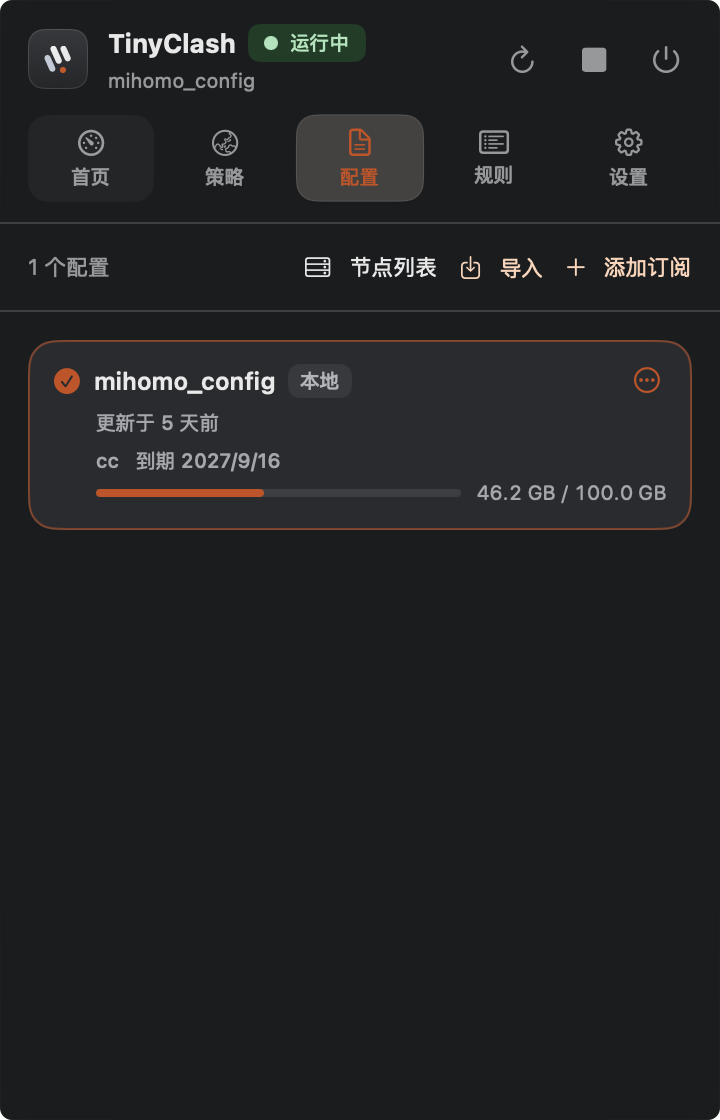
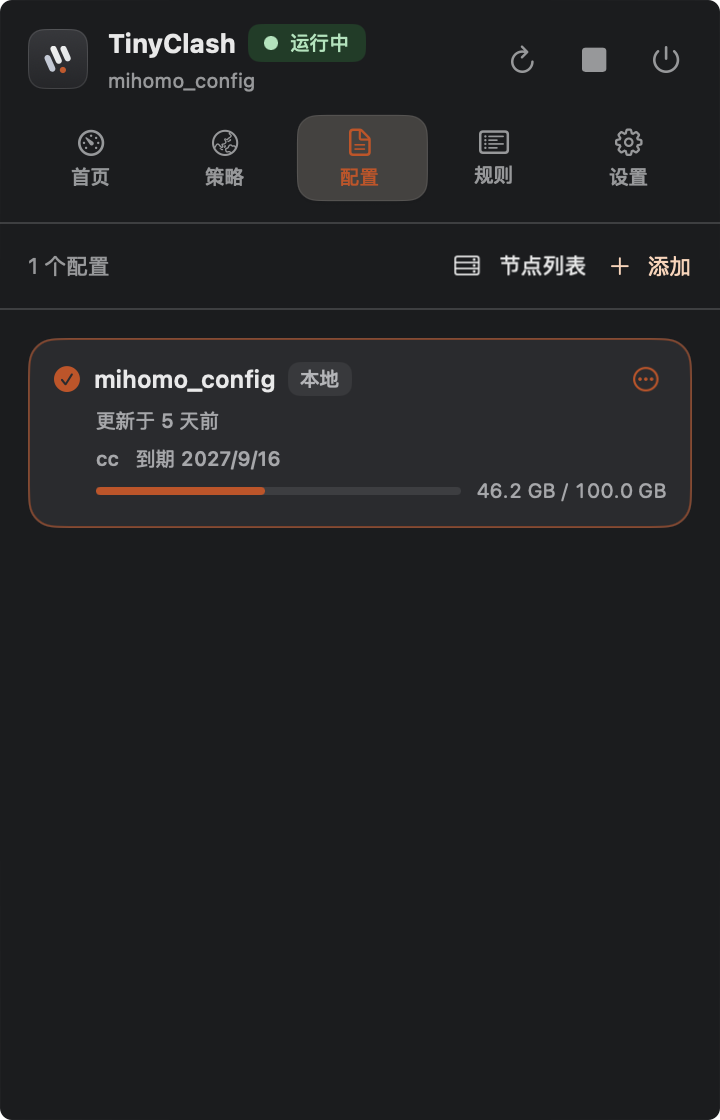
Group profile creation actions in the Add menu

Changed region(s): [[0.0, 0.2188, 1.0, 0.4375], [0.0611, 0.4062, 0.9167, 0.5], [0.5806, 0.125, 0.6111, 0.1875]]

diff --git a/Sources/TinyClash/Views/Panel/ProfilesTab.swift b/Sources/TinyClash/Views/Panel/ProfilesTab.swift
@@ -49,12 +49,13 @@ struct ProfilesTab: View {
                 .toolbarAction()
                 .help("查看全部节点")
                 Menu {
+                    Button("添加订阅…") { adding = true }
                     Button("导入 YAML 文件…") { Task { await state.importProfileFromFile() } }
                     Button("新建空白配置") {
                         if let p = state.createBlankProfile() { NSWorkspace.shared.open(p.fileURL) }
                     }
                 } label: {
-                    Label("导入", systemImage: "square.and.arrow.down")
+                    Label("添加", systemImage: "plus")
                 }
                 // borderless 按钮样式下菜单标签会被 AppKit 按系统字号重绘；plain 样式才沿用
                 // 这里的 caption 字号，与旁边的工具栏按钮一样大
@@ -63,11 +64,7 @@ struct ProfilesTab: View {
                 .menuIndicator(.hidden)
                 .fixedSize()
                 .toolbarAction(prominent: true)
-                .help("导入本地 YAML 或新建空白配置")
-                Button { adding = true } label: {
-                    Label("添加订阅", systemImage: "plus")
-                }
-                .toolbarAction(prominent: true)
+                .help("添加订阅、导入本地 YAML 或新建空白配置")
             }
             .font(Theme.toolbarFont)
             .buttonStyle(.borderless)

diff --git a/DESIGN.md b/DESIGN.md
@@ -197,7 +197,7 @@ Home uses a native segmented picker for mode selection. Group search uses `TextF
 
 Settings draws its own switches (`SettingsSwitchStyle`) and inline action buttons (`SettingsActionStyle`) instead of using native ones: the menu bar app is usually inactive, so native controls render with grey knobs, a dimmed tint, and grey buttons. Switches use an OrangePulse (`#F57B3F`) track with a white knob. Buttons use `Theme.settingsActionForeground` text (`#F57B3F` in dark appearance, `#B0480E` in light appearance) on a 15% OrangePulse fill. The appearance picker is a compact icon switch: an inset track with a 20% OrangePulse selection block that slides between options, with the selected icon in `Theme.settingsActionForeground`, matching the inline action buttons. The 协议栈 popup remains native and inherits the panel tint (`Theme.accent`), matching the pickers in 策略 and 规则. `panelPicker` rebuilds the popup when the color scheme changes, because a live native popup otherwise falls back to the system accent color.
 
-The Profiles tab uses the same top toolbar as 策略 and 规则: profile count, an 「导入」 menu (导入 YAML 文件… / 新建空白配置), and the prominent 「添加订阅」. Each remote profile card's menu offers “更新订阅” (alongside the card's refresh button), and every profile card's menu additionally offers “更新订阅节点” for the selected, running configuration, including local YAML: it updates only HTTP `proxy-providers`, shows an in-card progress indicator, then refreshes the node list without rewriting YAML, restarting the core, or updating rule providers. For noncurrent or stopped profiles the disabled item's own title states the reason (「需先切换到此配置」 / 「需先启动内核」) instead of an extra inert menu row; enumeration errors, absent HTTP subscriptions, and individual update failures are reported rather than silently treated as success.
+The Profiles tab uses the same top toolbar as 策略 and 规则: profile count, 「节点列表」, and a prominent 「添加」 menu (添加订阅… / 导入 YAML 文件… / 新建空白配置). Each remote profile card's menu offers “更新订阅” (alongside the card's refresh button), and every profile card's menu additionally offers “更新订阅节点” for the selected, running configuration, including local YAML: it updates only HTTP `proxy-providers`, shows an in-card progress indicator, then refreshes the node list without rewriting YAML, restarting the core, or updating rule providers. For noncurrent or stopped profiles the disabled item's own title states the reason (「需先切换到此配置」 / 「需先启动内核」) instead of an extra inert menu row; enumeration errors, absent HTTP subscriptions, and individual update failures are reported rather than silently treated as success.
 
 ### Tags and status
 
